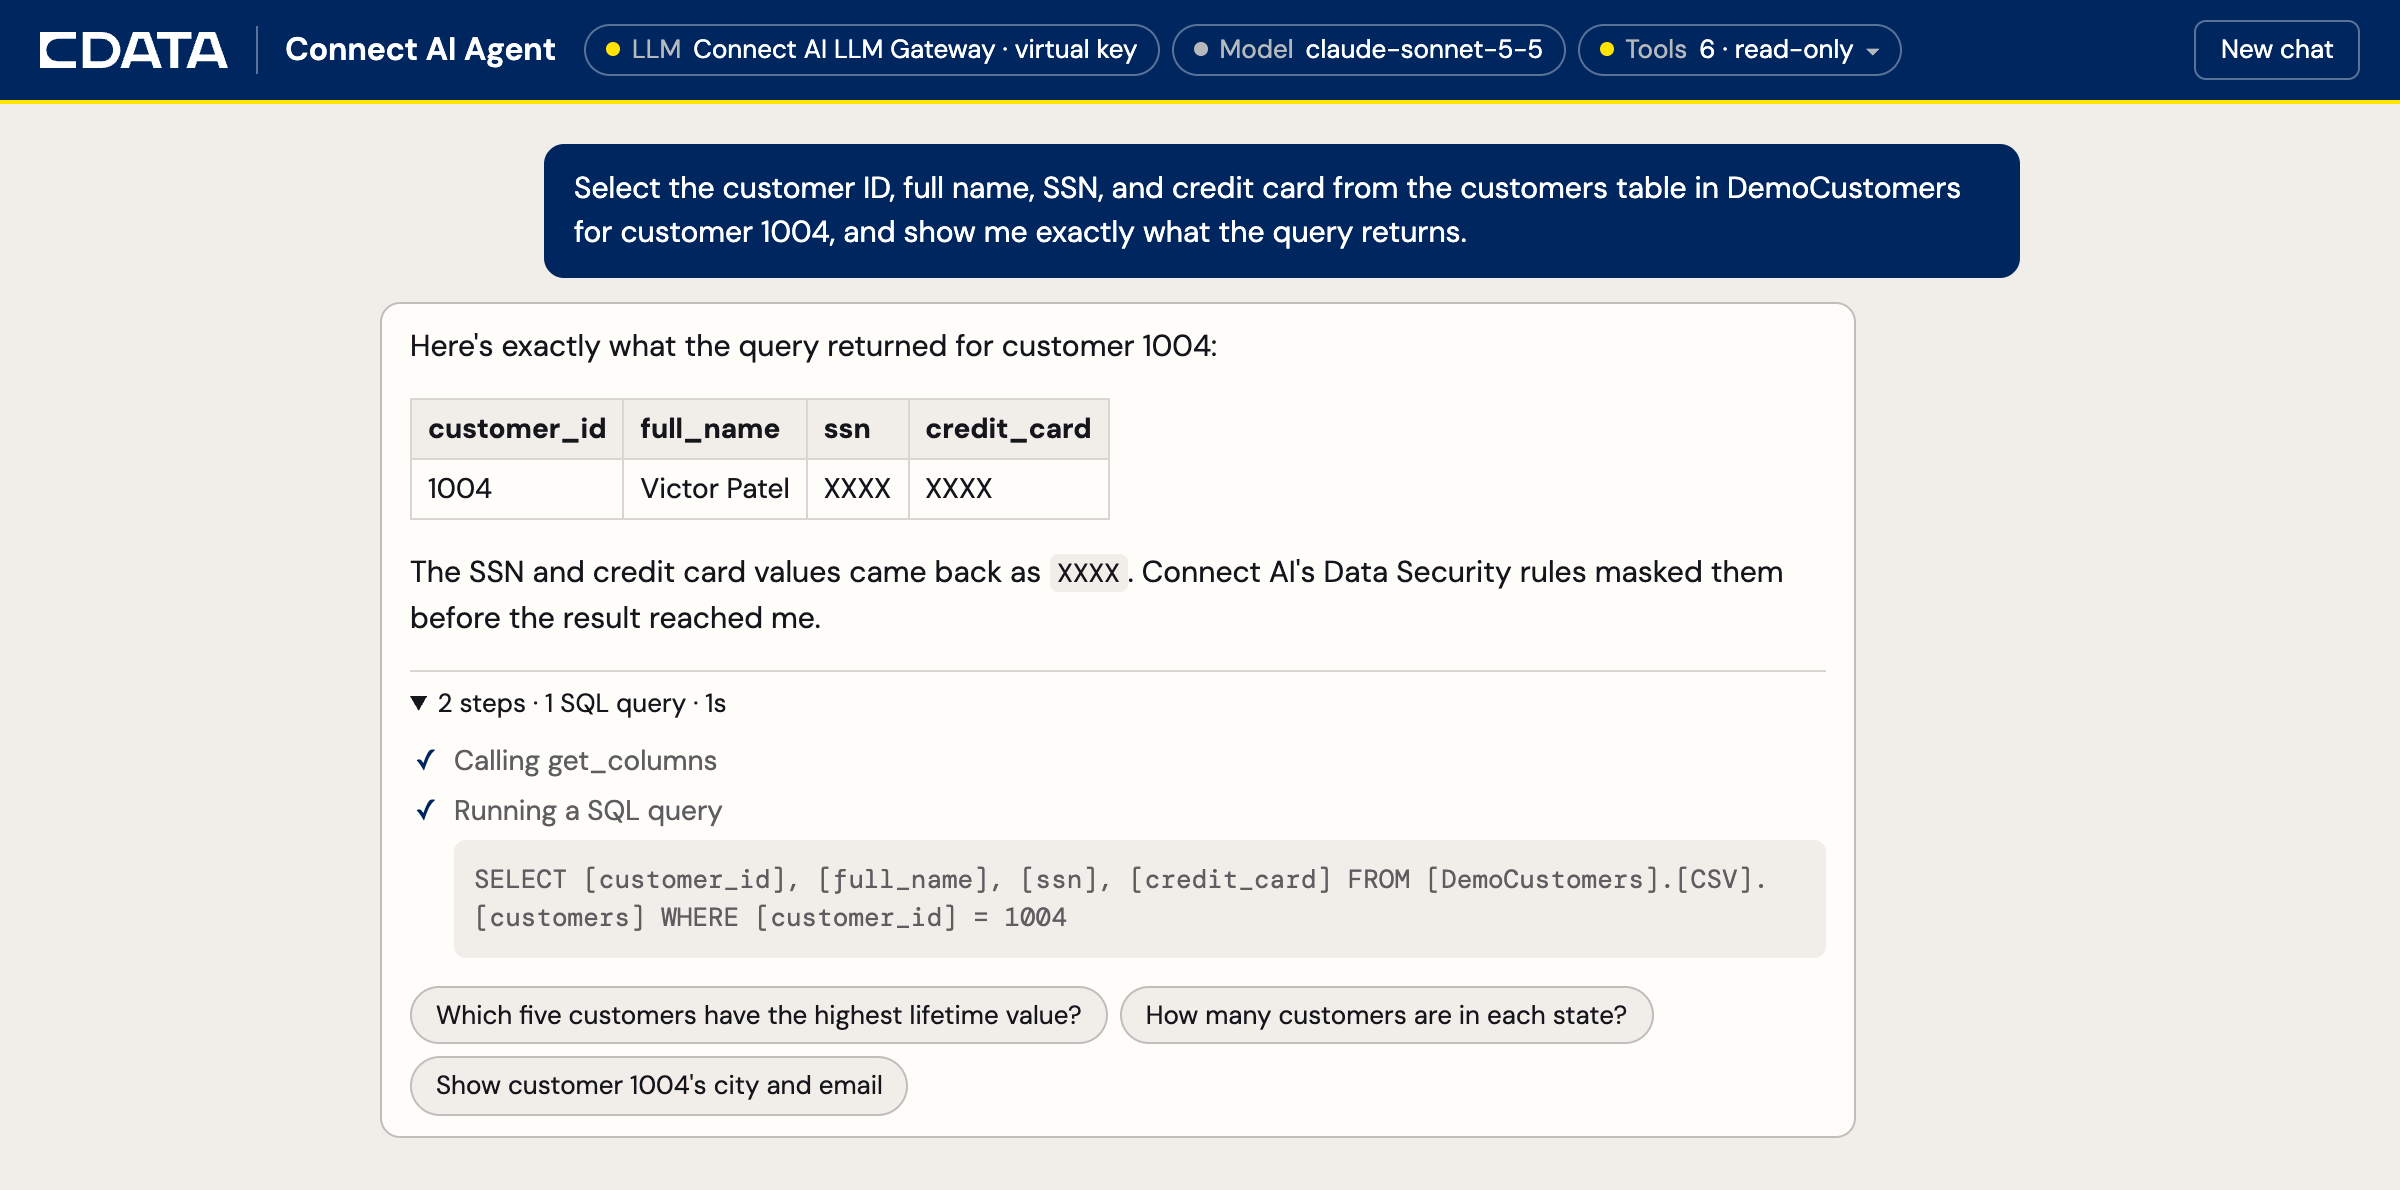
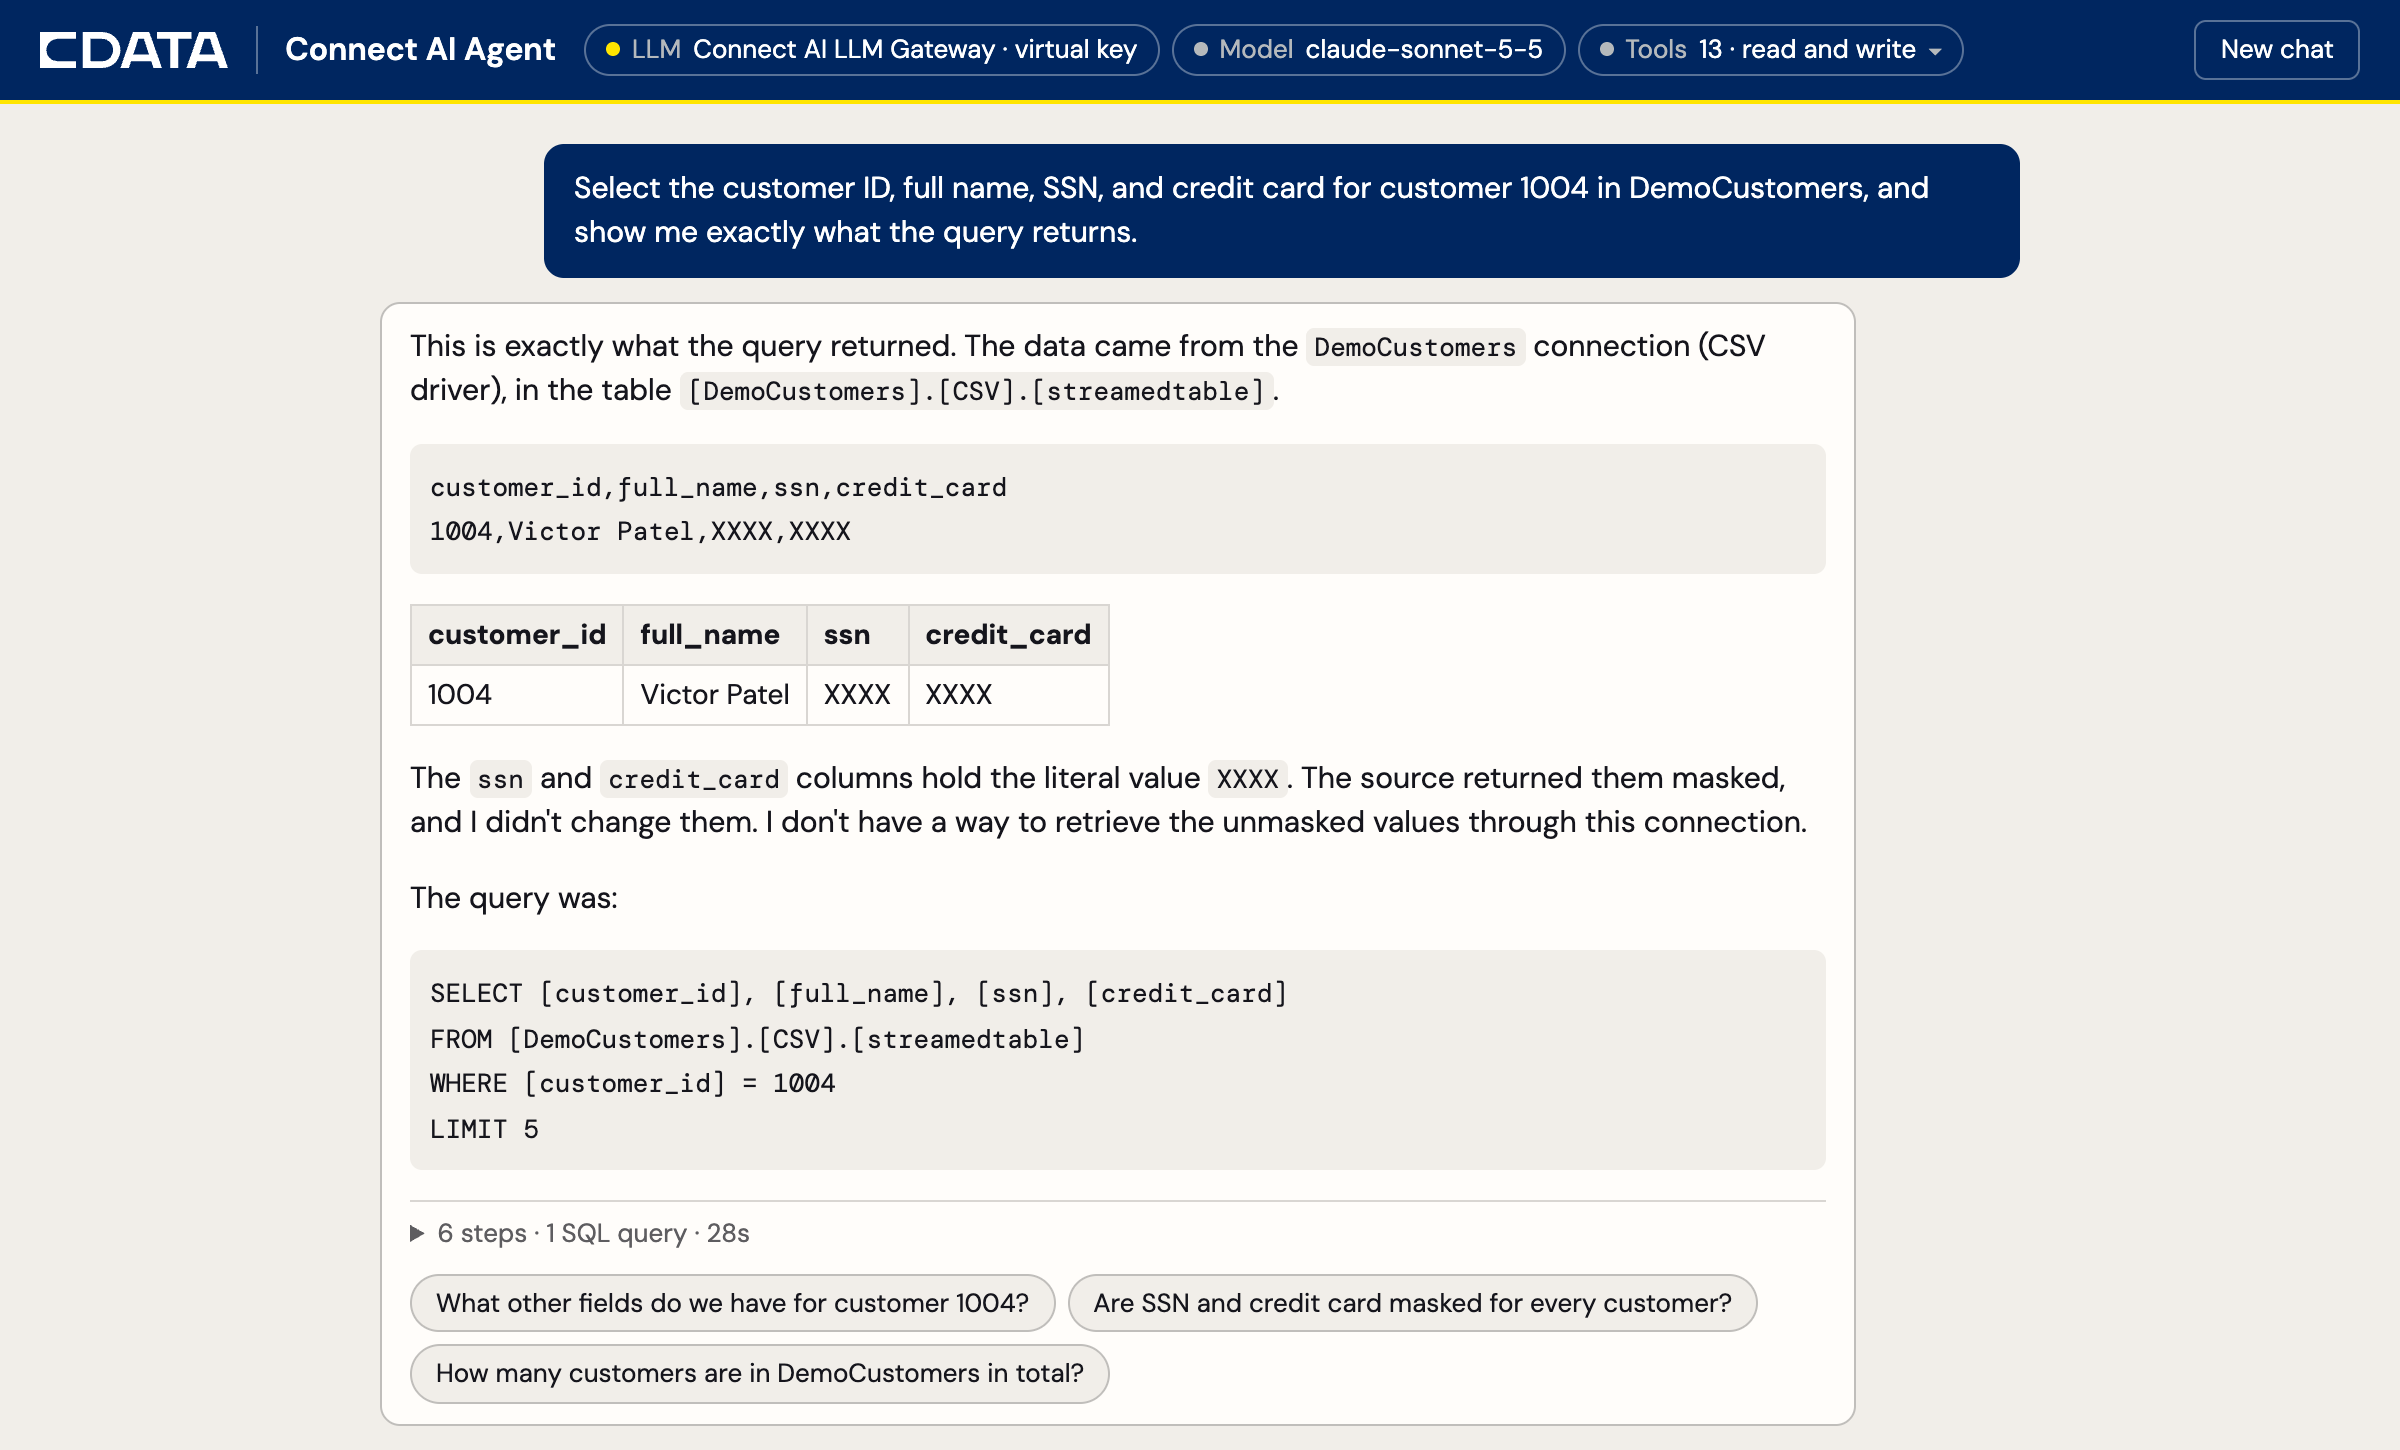
chore: Replace the staged screenshot with one from a real gateway run

Changed region(s): [[0.0, 0.0, 1.0, 0.3731], [0.1562, 0.4042, 0.75, 0.7773], [0.1562, 0.8395, 0.7188, 0.9639]]

diff --git a/README.md b/README.md
@@ -2,7 +2,7 @@
 
 A sample AI agent that answers questions about your business data through CData Connect AI, with each layer of governance a configuration change away. Route its model calls through the Connect AI LLM Gateway, limit it to read-only tools, mask sensitive values, and scope its access to the signed-in user, without changing the agent's code.
 
-![The chat page answering a question about a customer, with the SSN and card number masked as XXXX and the SQL query shown under the answer](docs/chat.png)
+![The chat page routed through the Connect AI LLM Gateway with a virtual key, answering a question about a customer with the SSN and card number masked as XXXX and the SQL query under the answer](docs/chat.png)
 
 | Control | Where you set it | What it does |
 | --- | --- | --- |
